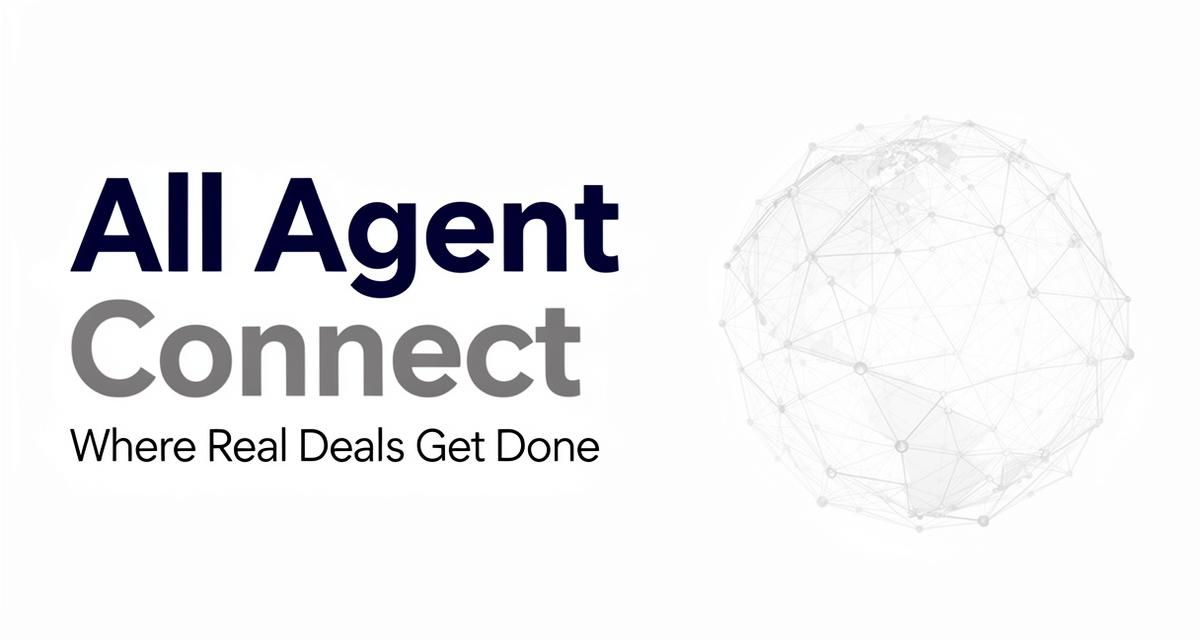
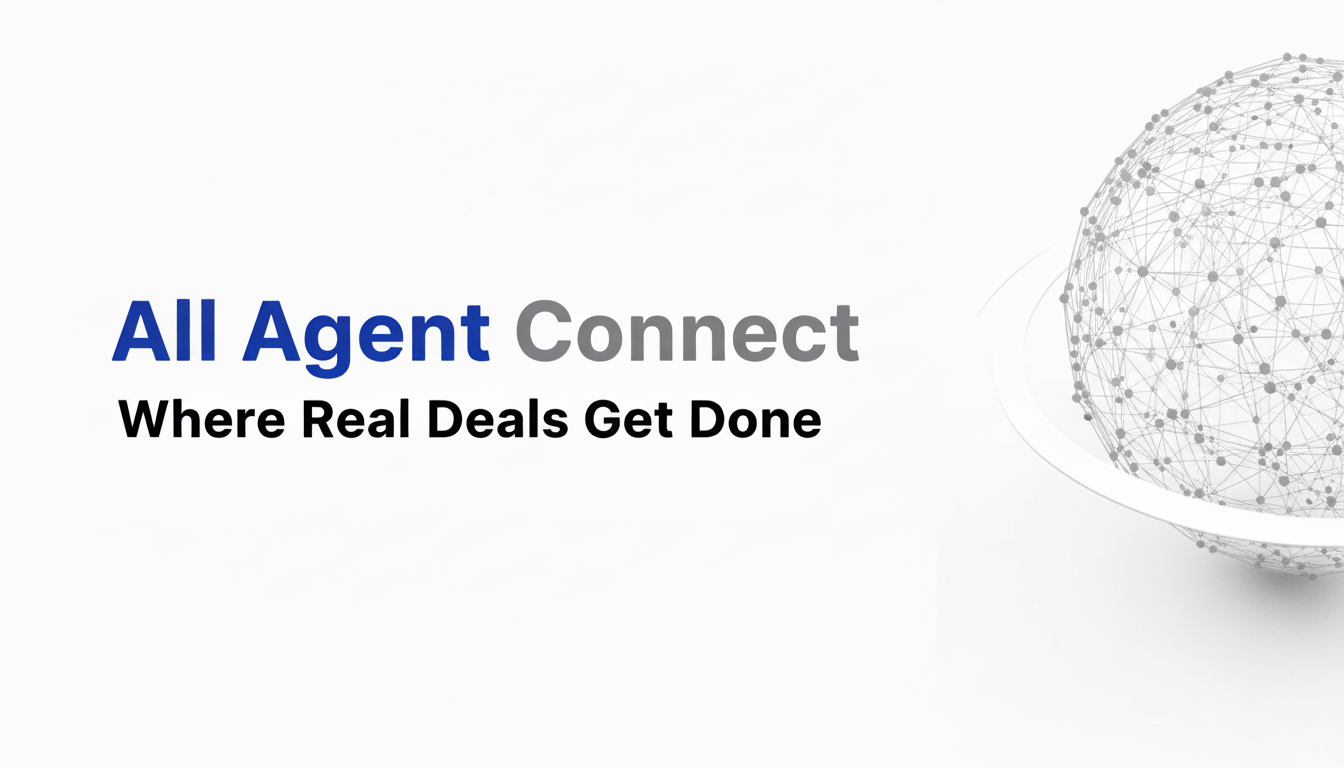
Changes

diff --git a/public/og/og-render.html b/public/og/og-render.html
@@ -1,0 +1,166 @@
+<!DOCTYPE html>
+<html>
+<head>
+  <meta charset="UTF-8">
+  <title>AAC OG Image Render</title>
+  <style>
+    * { margin: 0; padding: 0; box-sizing: border-box; }
+    
+    @import url('https://fonts.googleapis.com/css2?family=Inter:wght@600;700&display=swap');
+    
+    body {
+      width: 1200px;
+      height: 630px;
+      background: #FFFFFF;
+      font-family: 'Inter', -apple-system, BlinkMacSystemFont, sans-serif;
+      overflow: hidden;
+      position: relative;
+    }
+    
+    .content {
+      position: absolute;
+      left: 72px;
+      top: 50%;
+      transform: translateY(-50%);
+      z-index: 10;
+    }
+    
+    .wordmark {
+      font-size: 48px;
+      font-weight: 600;
+      letter-spacing: -0.02em;
+      margin-bottom: 24px;
+    }
+    
+    .wordmark .all-agent {
+      color: #0E56F5; /* Royal Blue */
+    }
+    
+    .wordmark .connect {
+      color: #94A3B8; /* Silvery Gray */
+    }
+    
+    .headline {
+      font-size: 56px;
+      font-weight: 700;
+      color: #18181B; /* Near-black / zinc-900 */
+      letter-spacing: -0.03em;
+      line-height: 1.1;
+      max-width: 520px;
+    }
+    
+    .globe-container {
+      position: absolute;
+      right: -120px;
+      top: 50%;
+      transform: translateY(-50%);
+      width: 600px;
+      height: 600px;
+      opacity: 0.25;
+    }
+    
+    .globe-svg {
+      width: 100%;
+      height: 100%;
+    }
+  </style>
+</head>
+<body>
+  <!-- Text content on left -->
+  <div class="content">
+    <div class="wordmark">
+      <span class="all-agent">All Agent</span> <span class="connect">Connect</span>
+    </div>
+    <div class="headline">Where Real Deals<br>Get Done</div>
+  </div>
+  
+  <!-- Network globe on right - exact same geometry as NetworkGlobe.tsx -->
+  <div class="globe-container">
+    <svg class="globe-svg" viewBox="0 0 300 300">
+      <!-- Line color: #8A8A8F (neutral gray) -->
+      <!-- Node color: #A8A8AD (slightly lighter) -->
+      
+      <!-- Connection lines between nodes -->
+      <g stroke="#8A8A8F" stroke-width="1" fill="none">
+        <!-- Connections generated from spherical distribution algorithm -->
+        <!-- Node 0: (150 + 120*cos(θ)*sin(φ), 150 + 120*sin(θ)*sin(φ)) -->
+        <line x1="150" y1="30" x2="207" y2="60" opacity="0.65" />
+        <line x1="150" y1="30" x2="93" y2="60" opacity="0.65" />
+        <line x1="207" y1="60" x2="252" y2="105" opacity="0.6" />
+        <line x1="93" y1="60" x2="48" y2="105" opacity="0.6" />
+        <line x1="207" y1="60" x2="150" y2="80" opacity="0.55" />
+        <line x1="93" y1="60" x2="150" y2="80" opacity="0.55" />
+        <line x1="252" y1="105" x2="270" y2="150" opacity="0.5" />
+        <line x1="48" y1="105" x2="30" y2="150" opacity="0.5" />
+        <line x1="252" y1="105" x2="230" y2="130" opacity="0.55" />
+        <line x1="48" y1="105" x2="70" y2="130" opacity="0.55" />
+        <line x1="270" y1="150" x2="252" y2="195" opacity="0.5" />
+        <line x1="30" y1="150" x2="48" y2="195" opacity="0.5" />
+        <line x1="230" y1="130" x2="250" y2="170" opacity="0.45" />
+        <line x1="70" y1="130" x2="50" y2="170" opacity="0.45" />
+        <line x1="252" y1="195" x2="207" y2="240" opacity="0.45" />
+        <line x1="48" y1="195" x2="93" y2="240" opacity="0.45" />
+        <line x1="207" y1="240" x2="150" y2="270" opacity="0.4" />
+        <line x1="93" y1="240" x2="150" y2="270" opacity="0.4" />
+        <line x1="207" y1="240" x2="150" y2="220" opacity="0.42" />
+        <line x1="93" y1="240" x2="150" y2="220" opacity="0.42" />
+        <!-- Cross connections -->
+        <line x1="150" y1="80" x2="190" y2="120" opacity="0.5" />
+        <line x1="150" y1="80" x2="110" y2="120" opacity="0.5" />
+        <line x1="190" y1="120" x2="210" y2="150" opacity="0.48" />
+        <line x1="110" y1="120" x2="90" y2="150" opacity="0.48" />
+        <line x1="210" y1="150" x2="190" y2="180" opacity="0.45" />
+        <line x1="90" y1="150" x2="110" y2="180" opacity="0.45" />
+        <line x1="190" y1="180" x2="150" y2="220" opacity="0.42" />
+        <line x1="110" y1="180" x2="150" y2="220" opacity="0.42" />
+        <!-- Inner mesh -->
+        <line x1="150" y1="120" x2="180" y2="150" opacity="0.5" />
+        <line x1="150" y1="120" x2="120" y2="150" opacity="0.5" />
+        <line x1="180" y1="150" x2="150" y2="180" opacity="0.48" />
+        <line x1="120" y1="150" x2="150" y2="180" opacity="0.48" />
+        <line x1="180" y1="150" x2="190" y2="120" opacity="0.5" />
+        <line x1="120" y1="150" x2="110" y2="120" opacity="0.5" />
+        <line x1="180" y1="150" x2="190" y2="180" opacity="0.45" />
+        <line x1="120" y1="150" x2="110" y2="180" opacity="0.45" />
+      </g>
+      
+      <!-- Orbital rings -->
+      <ellipse cx="150" cy="150" rx="120" ry="40" fill="none" stroke="#8A8A8F" stroke-width="0.75" opacity="0.4" />
+      <ellipse cx="150" cy="150" rx="100" ry="100" fill="none" stroke="#8A8A8F" stroke-width="0.75" opacity="0.4" />
+      
+      <!-- Network nodes (24 spherically distributed) -->
+      <g fill="#A8A8AD">
+        <!-- Top hemisphere -->
+        <circle cx="150" cy="30" r="3" opacity="0.8" />
+        <circle cx="207" cy="60" r="2.5" opacity="0.75" />
+        <circle cx="93" cy="60" r="2.5" opacity="0.75" />
+        <circle cx="252" cy="105" r="2.5" opacity="0.65" />
+        <circle cx="48" cy="105" r="2.5" opacity="0.65" />
+        <circle cx="150" cy="80" r="2.5" opacity="0.7" />
+        <circle cx="230" cy="130" r="2.5" opacity="0.6" />
+        <circle cx="70" cy="130" r="2.5" opacity="0.6" />
+        <!-- Equator -->
+        <circle cx="270" cy="150" r="2.5" opacity="0.55" />
+        <circle cx="30" cy="150" r="2.5" opacity="0.55" />
+        <circle cx="210" cy="150" r="2.5" opacity="0.55" />
+        <circle cx="90" cy="150" r="2.5" opacity="0.55" />
+        <circle cx="150" cy="120" r="2.5" opacity="0.6" />
+        <circle cx="180" cy="150" r="2.5" opacity="0.55" />
+        <circle cx="120" cy="150" r="2.5" opacity="0.55" />
+        <circle cx="150" cy="180" r="2.5" opacity="0.5" />
+        <!-- Bottom hemisphere -->
+        <circle cx="250" cy="170" r="2.5" opacity="0.5" />
+        <circle cx="50" cy="170" r="2.5" opacity="0.5" />
+        <circle cx="252" cy="195" r="2.5" opacity="0.48" />
+        <circle cx="48" cy="195" r="2.5" opacity="0.48" />
+        <circle cx="190" cy="180" r="2.5" opacity="0.48" />
+        <circle cx="110" cy="180" r="2.5" opacity="0.48" />
+        <circle cx="207" cy="240" r="2.5" opacity="0.42" />
+        <circle cx="93" cy="240" r="2.5" opacity="0.42" />
+        <circle cx="150" cy="220" r="2.5" opacity="0.45" />
+        <circle cx="150" cy="270" r="3" opacity="0.4" />
+      </g>
+    </svg>
+  </div>
+</body>
+</html>
